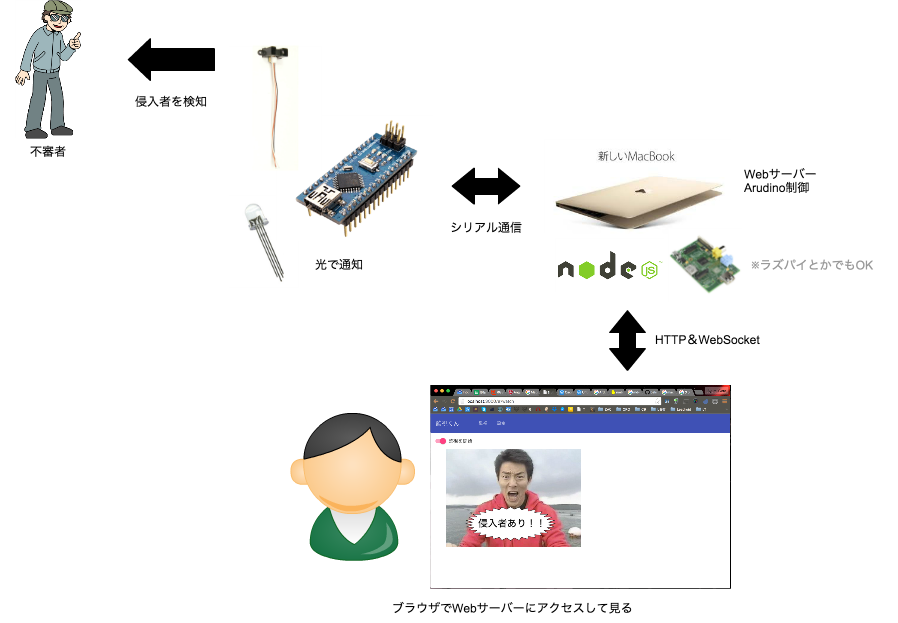
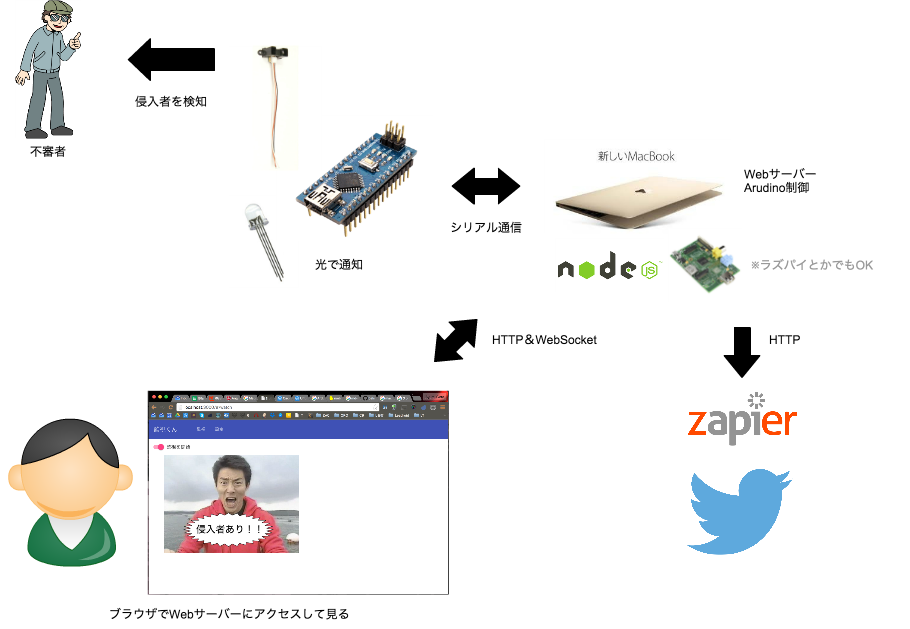
Add twitter relation

diff --git a/app.js b/app.js
@@ -4,6 +4,7 @@ var serialport = require('serialport');
 var express    = require('express');
 var ws         = require('websocket.io');
 var moment     = require('moment');
+var request    = require('request');
 
 // State
 var alertHistories = [
@@ -55,6 +56,20 @@ var wsServer = ws.listen(8888, function () {
 function sendAlert(isAlert) {
   wsServer.clients.forEach(function(client) {
     client.send(JSON.stringify({ 'isAlert' : isAlert }));
+  });
+  tweetAlert();
+}
+
+function tweetAlert() {
+  var options = {
+    uri: 'https://zapier.com/hooks/catch/3gcq9h/',
+    form: { "test": "test", "date": moment().format('YYYY/MM/DD HH:mm:ss') },
+    json: true
+  };
+  request.post(options, function(error, response, body){
+    // noop
+    console.log(error);
+    console.log(response);
   });
 }
 
